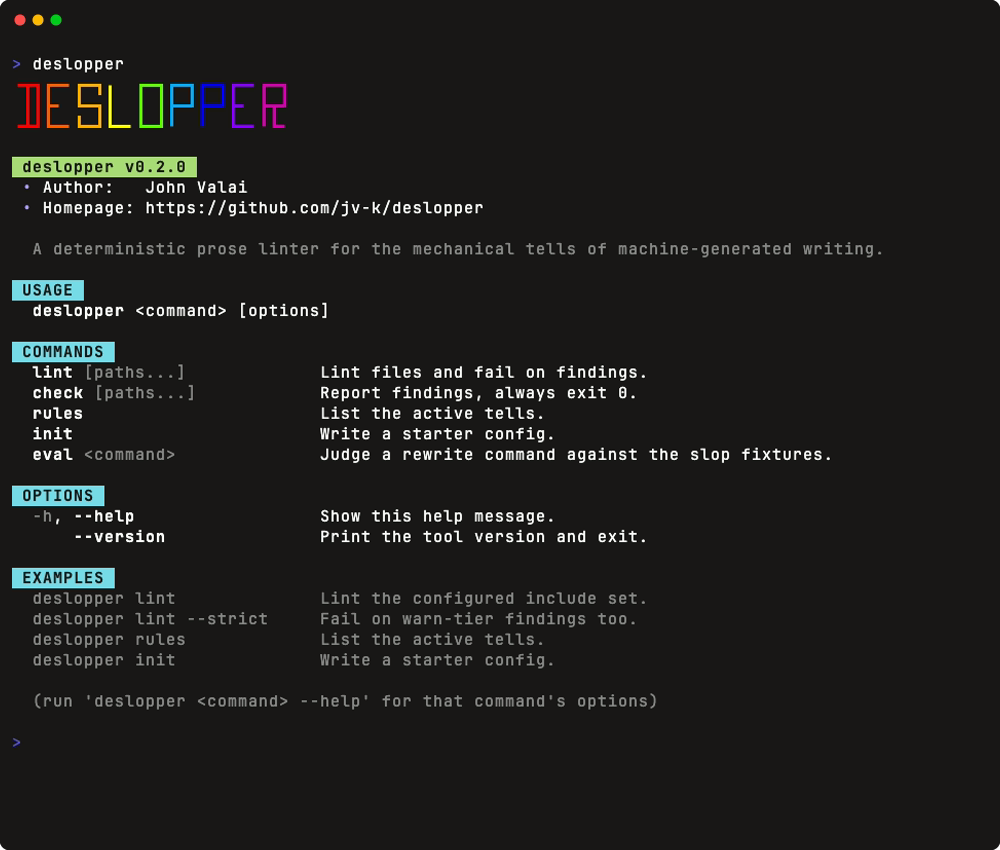
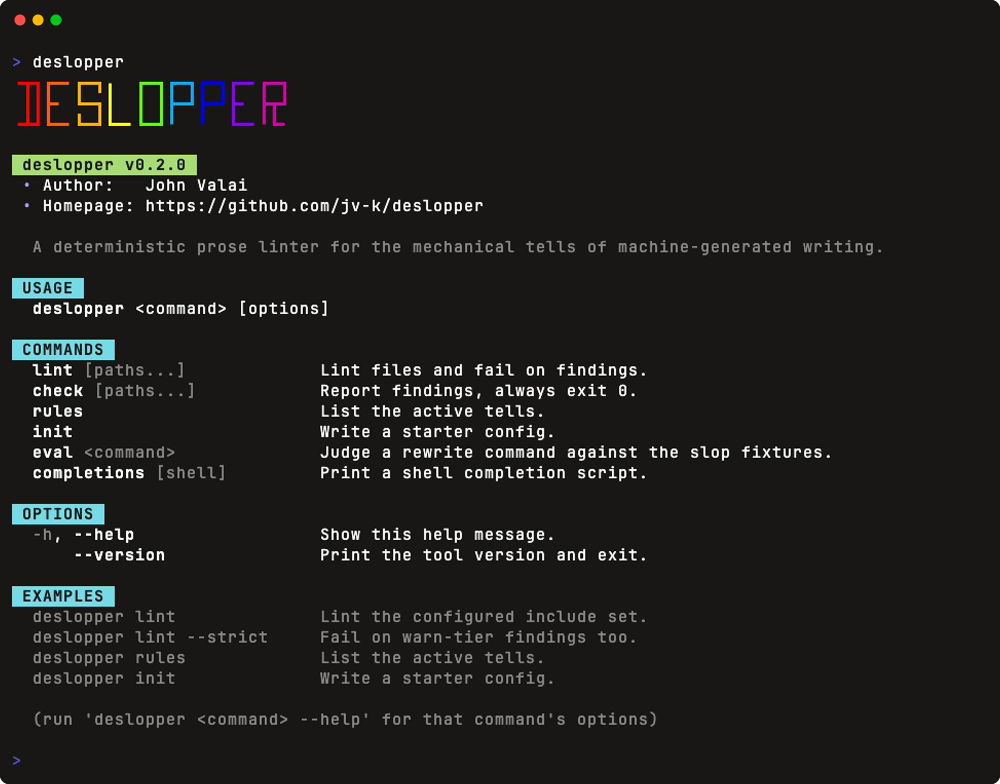
feat(repo): auto-size the help screenshot and lead the README with it
The help tape's height is now computed by the runner from the rendered
help's real line count, so the frame always wraps the content snugly
and never needs retuning when commands are added — the fresh render
already includes the completions row. The README leads with the
screenshot under the title, the demo gets its own section after
Install, a colour-gate note lands under Commands, and the CONTRIBUTING
module list picks up completions.py.

diff --git a/README.md b/README.md
@@ -1,17 +1,11 @@
 # deslopper
 
-A deterministic prose linter for the mechanical tells of machine-generated writing. No
-model, no network: it runs in CI and pre-commit and fails the build on a banned tell.
-
 <div align="center">
   <img src="https://raw.githubusercontent.com/jv-k/deslopper/main/img/screenshot.png" alt="A bare deslopper run: the rainbow wordmark logo, the version pill, and the USAGE, COMMANDS, OPTIONS, and EXAMPLES sections of the help.">
 </div>
 
-## Demo
-
-<div align="center">
-  <img src="https://raw.githubusercontent.com/jv-k/deslopper/main/img/deslopper-demo.gif" alt="Animated demo: deslopper lint reports an em-dash error and four warnings on a sloppy file, then passes clean after a rewrite.">
-</div>
+A deterministic prose linter for the mechanical tells of machine-generated writing. No
+model, no network: it runs in CI and pre-commit and fails the build on a banned tell.
 
 ## Why?
 
@@ -47,6 +41,12 @@ Pin a version in CI for reproducible builds:
 
     uvx deslopper@0.1.0 lint --format github
 
+## Demo
+
+<div align="center">
+  <img src="https://raw.githubusercontent.com/jv-k/deslopper/main/img/deslopper-demo.gif" alt="Animated demo: deslopper lint reports an em-dash error and four warnings on a sloppy file, then passes clean after a rewrite.">
+</div>
+
 ## Commands
 
     deslopper lint  [PATHS...] [--strict] [--config P] [--format text|github|json]
@@ -62,6 +62,10 @@ in a work tree or a filesystem walk otherwise.
 Tab completion comes from `deslopper completions`, which detects your shell from `$SHELL`
 when you leave the argument off. Run `deslopper completions --help` for where each shell
 expects the script.
+
+Output is coloured on a terminal and plain when piped. `NO_COLOR` turns styling off
+everywhere, `FORCE_COLOR=1` turns it on without a terminal, and the `github` and `json`
+formats are never styled.
 
 ## Tiers and exit codes
 

diff --git a/CONTRIBUTING.md b/CONTRIBUTING.md
@@ -48,7 +48,8 @@ Follow the module layout: one responsibility per file. `engine.py` scans, `rules
 compiles kinds, `config.py` resolves, `discovery.py` finds files, `report.py` formats,
 `digest.py` extracts the protected content the eval compares, `evaluate.py` runs the
 rewrite eval, `ui.py` owns the colour gate and terminal styling, `help.py` renders the
-help screens, and `cli.py` wires the commands. Write a failing test first, make it pass,
+help screens, `completions.py` prints the shell completion scripts, and `cli.py` wires
+the commands. Write a failing test first, make it pass,
 and keep the suite green.
 
 ## Commits and pull requests
